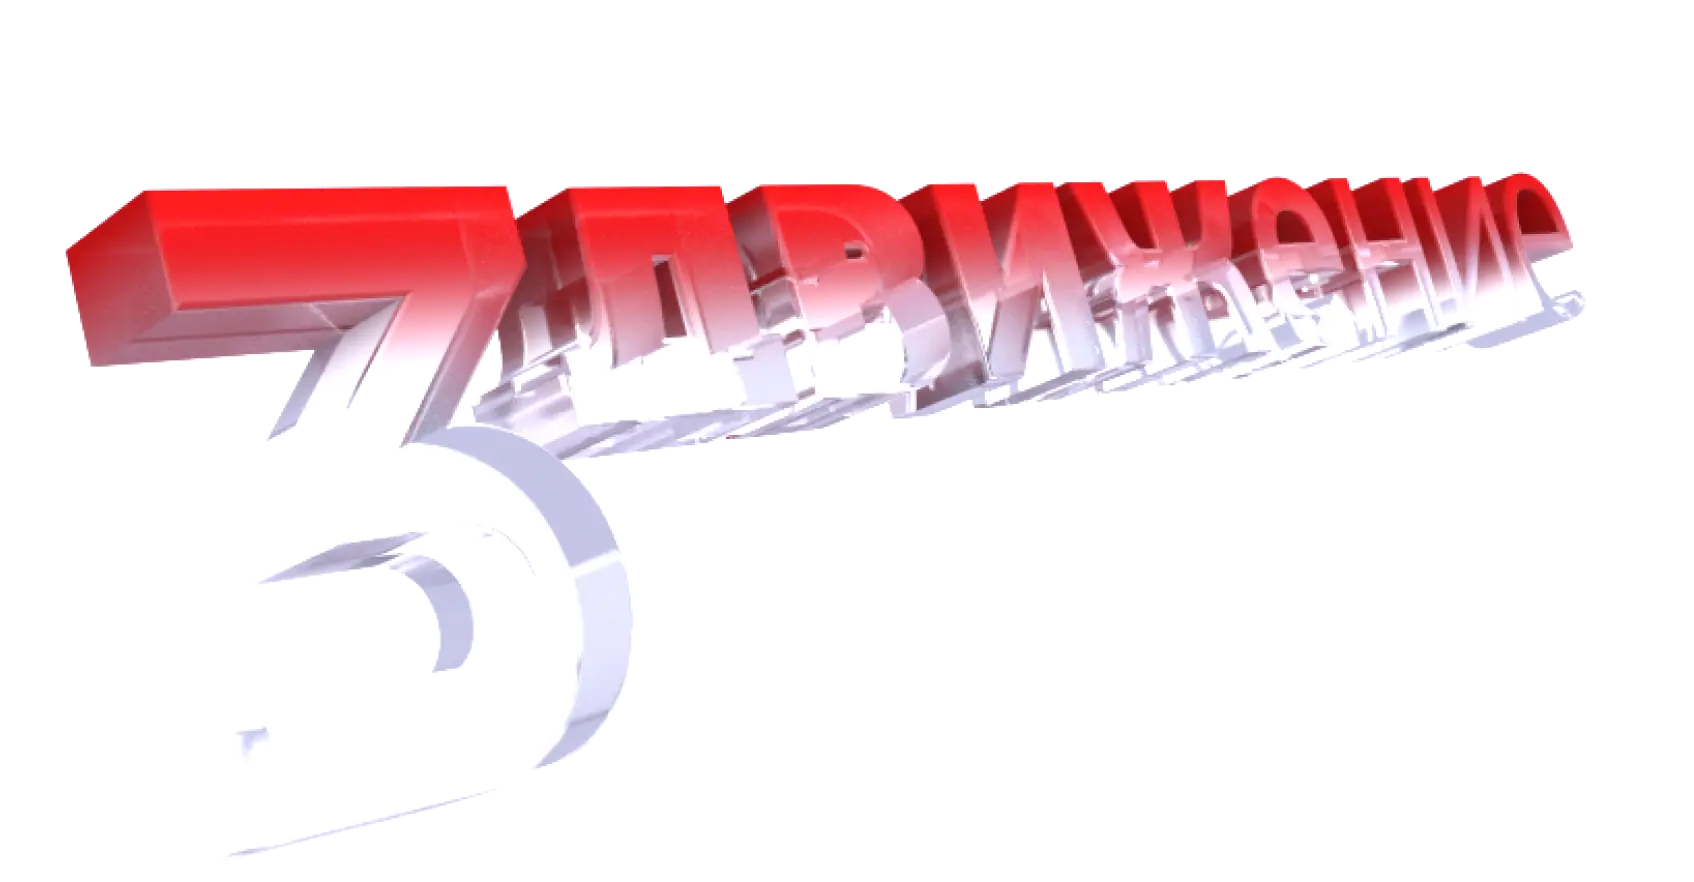
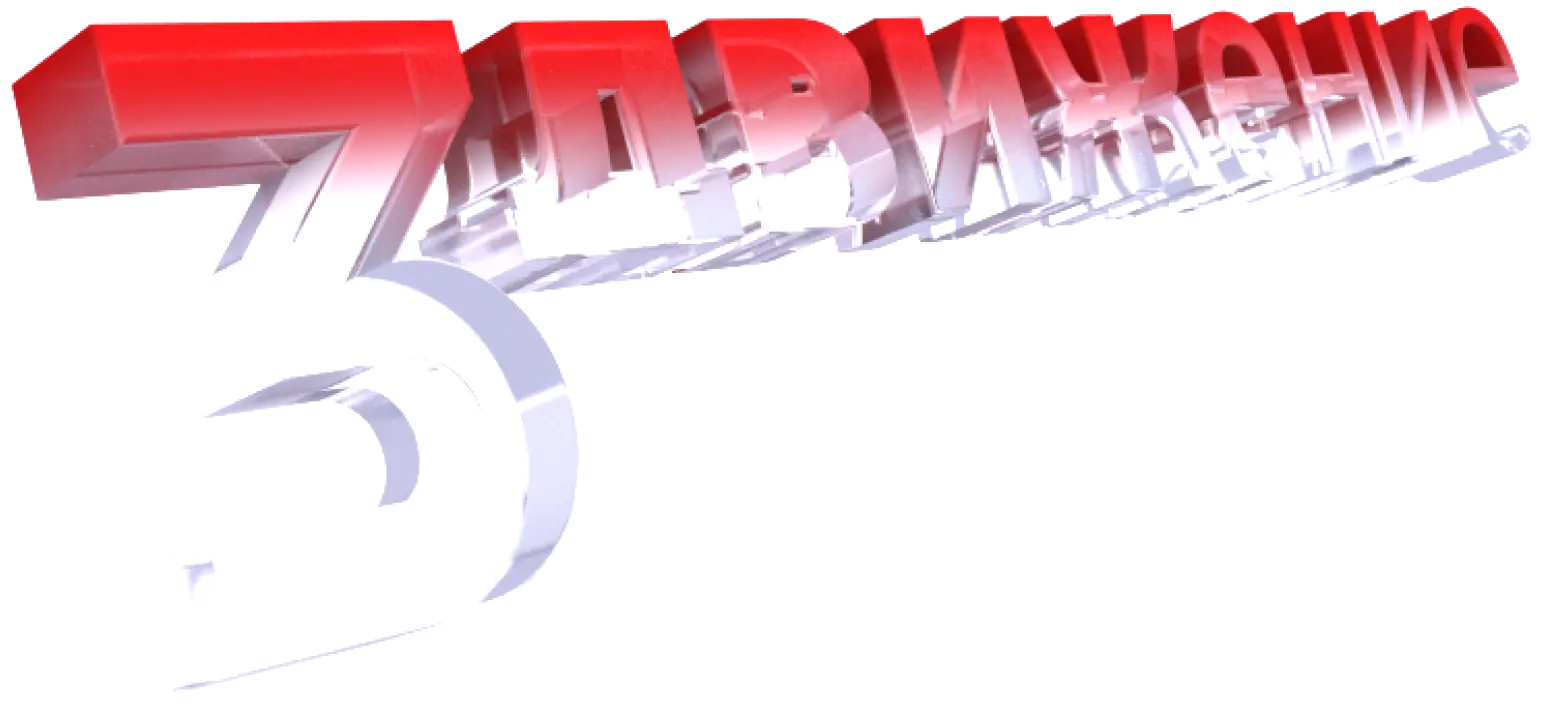
end optimization

diff --git a/src/scss/intro.scss b/src/scss/intro.scss
@@ -5,10 +5,6 @@
 
   color: white;
 
-  @media  screen and (max-width: 1024px) and (orientation: landscape) {
-    height: auto;
-  }
-
   &__bg-image {
     position: absolute;
     top: 0;
@@ -102,7 +98,7 @@
   &__title-image {
     position: absolute;
     left: -9rem;
-    top: -25rem;
+    top: -19rem;
     z-index: 2;
 
     position: absolute;
@@ -115,21 +111,20 @@
 
     @include breakpoint(tablet) {
       left: -26rem;
-      top: -19rem;
+      top: -14rem;
 
       width: 63.5rem;
     }
     @include breakpoint(small-tablet) {
-      left: -9rem;
-      top: -20rem;
+      left: -2rem;
+      top: -21rem;
 
       width: 43.5rem;
     }
     @include breakpoint(mobile) {
-      left: -3rem;
-      top: -17rem;
-
-      width: 31.76rem;
+      left: 0rem;
+      top: -13rem;
+      width: 100%;
     }
   }
 

diff --git a/src/scss/thematic-sections.scss b/src/scss/thematic-sections.scss
@@ -156,7 +156,7 @@
     transition: visibility 0.3s, opacity 0.3s ease;
 
     @include breakpoint(tablet) {
-      padding: 3rem;
+      padding: 4rem 4rem 3rem 3rem;
     }
     @include breakpoint(small-tablet) {
       padding: 2.4rem;
@@ -190,6 +190,10 @@
       top: 0.5rem;
       right: 0.5rem;
     }
+    @include breakpoint(mobile) {
+      top: 0.5rem;
+      right: 0.5rem;
+    }
   }
 
   &__description-close-icon {
@@ -204,6 +208,10 @@
     @include breakpoint(small-tablet) {
       width: 1.5rem;
       height: 1.5rem;
+    }
+    @include breakpoint(mobile) {
+      width: 1.2rem;
+      height: 1.2rem;
     }
   }
 

diff --git a/src/scss/footer.scss b/src/scss/footer.scss
@@ -8,10 +8,6 @@
   background: radial-gradient(115.74% 115.74% at 50% 115.74%, #E93939 0%, #A0B2E0 100%);
   color: white;
 
-  @media  screen and (max-width: 1024px) and (orientation: landscape) {
-    height: 200vh;
-  }
-
   @include breakpoint(tablet) {
     padding-top: 8rem;
     padding-bottom: 8rem;

diff --git a/src/scss/video-modal.scss b/src/scss/video-modal.scss
@@ -3,7 +3,7 @@
   &__content {
     width: 80vw;
     height: 0;
-    padding-bottom: 45vw;
+    padding-bottom: 40vw;
 
     @include breakpoint(tablet) {
       width: calc(100% - var(--content-padding-left) - var(--content-padding-right));

diff --git a/src/scss/map.scss b/src/scss/map.scss
@@ -44,6 +44,9 @@
 }
 
 .map__container {
+  position: relative;
+  z-index: 4;
+
   display: flex;
   justify-content: flex-end;
 }
